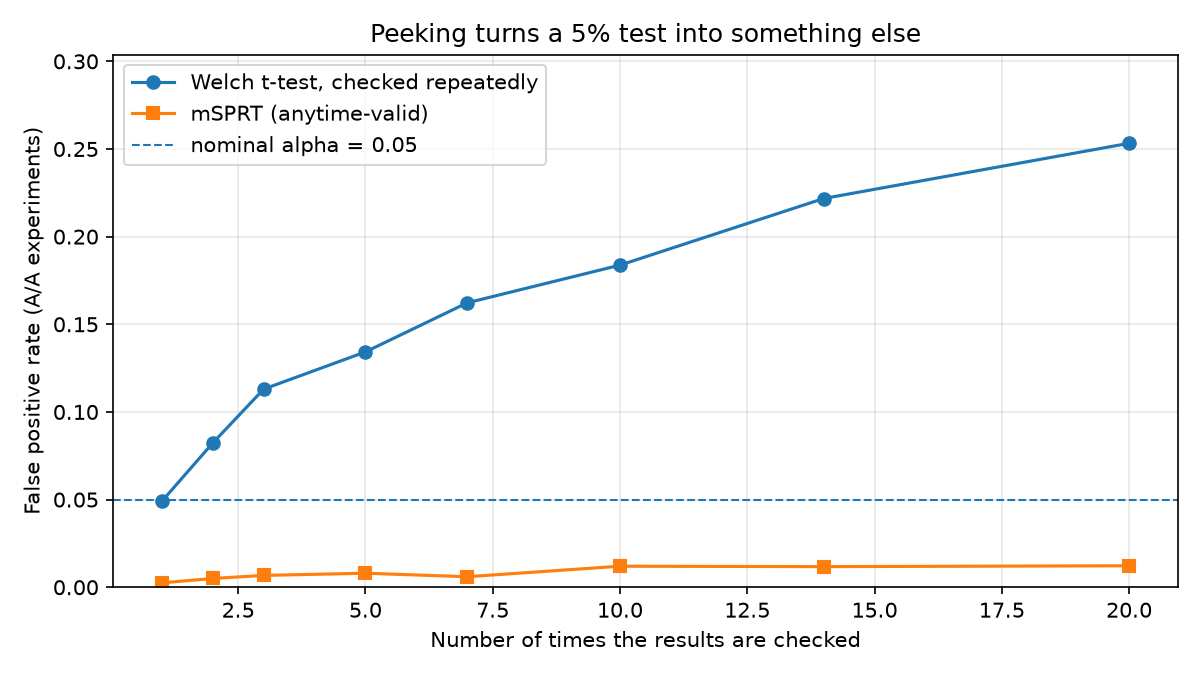
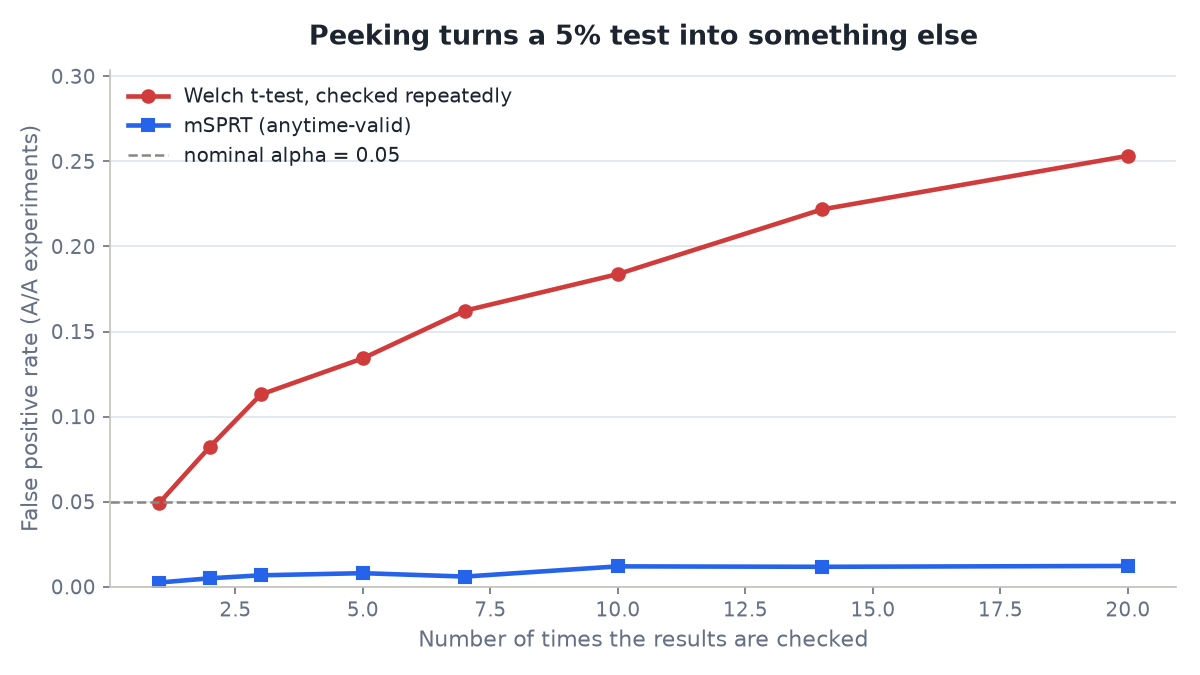
style(examples): polish the peeking chart to the portfolio palette
Restyle the peeking-pitfalls chart to match the portfolio sites: critical-red
for the inflated fixed-horizon curve, accent-blue for the anytime-valid mSPRT,
a muted dashed nominal-alpha line, hairline y-grid, no top/right spines.
Marker shapes (o/s) keep the series distinct beyond colour.

diff --git a/examples/peeking_pitfalls.py b/examples/peeking_pitfalls.py
@@ -29,6 +29,22 @@ N_EXPERIMENTS = 4_000
 SEED = 20260721
 CHART_PATH = Path(__file__).resolve().parents[1] / "docs" / "images" / "peeking.png"
 
+# --- Chart styling: clean matplotlib aligned with the portfolio page palette. ---
+_ACCENT = "#2563eb"
+_CRITICAL = "#d03b3b"
+_CHART_STYLE = {
+    "figure.facecolor": "white", "axes.facecolor": "white",
+    "axes.edgecolor": "#c3c2b7", "axes.linewidth": 0.8,
+    "axes.spines.top": False, "axes.spines.right": False,
+    "axes.grid": True, "axes.grid.axis": "y", "axes.axisbelow": True,
+    "grid.color": "#e3e7ee", "grid.linewidth": 0.9,
+    "axes.titlesize": 13, "axes.titleweight": "bold", "axes.titlecolor": "#1c2430",
+    "axes.titlepad": 12, "axes.labelcolor": "#667085", "axes.labelsize": 10.5,
+    "text.color": "#1c2430", "xtick.color": "#667085", "ytick.color": "#667085",
+    "xtick.labelsize": 9.5, "ytick.labelsize": 9.5, "font.size": 10.5,
+    "legend.frameon": False, "legend.fontsize": 9.5,
+}
+
 
 def run() -> tuple[list[SimulationSummary], list[SimulationSummary]]:
     """Same data-generating process, same looks, two decision rules."""
@@ -76,23 +92,26 @@ def write_chart(
     matplotlib.use("Agg")
     import matplotlib.pyplot as plt
 
+    plt.rcParams.update(_CHART_STYLE)
     figure, axes = plt.subplots(figsize=(8.0, 4.5))
     axes.plot(
         LOOK_COUNTS, [summary.rejection_rate for summary in fixed_horizon],
-        marker="o", label="Welch t-test, checked repeatedly",
+        marker="o", markersize=6, lw=2.2, color=_CRITICAL,
+        label="Welch t-test, checked repeatedly",
     )
     axes.plot(
         LOOK_COUNTS, [summary.rejection_rate for summary in sequential],
-        marker="s", label="mSPRT (anytime-valid)",
+        marker="s", markersize=6, lw=2.2, color=_ACCENT,
+        label="mSPRT (anytime-valid)",
     )
-    axes.axhline(ALPHA, linestyle="--", linewidth=1, label=f"nominal alpha = {ALPHA}")
+    axes.axhline(ALPHA, linestyle="--", linewidth=1.2, color="#898781",
+                 label=f"nominal alpha = {ALPHA}")
 
     axes.set_xlabel("Number of times the results are checked")
     axes.set_ylabel("False positive rate (A/A experiments)")
     axes.set_title("Peeking turns a 5% test into something else")
     axes.set_ylim(0.0, max(summary.rejection_rate for summary in fixed_horizon) * 1.2)
     axes.legend()
-    axes.grid(alpha=0.3)
     figure.tight_layout()
 
     CHART_PATH.parent.mkdir(parents=True, exist_ok=True)
